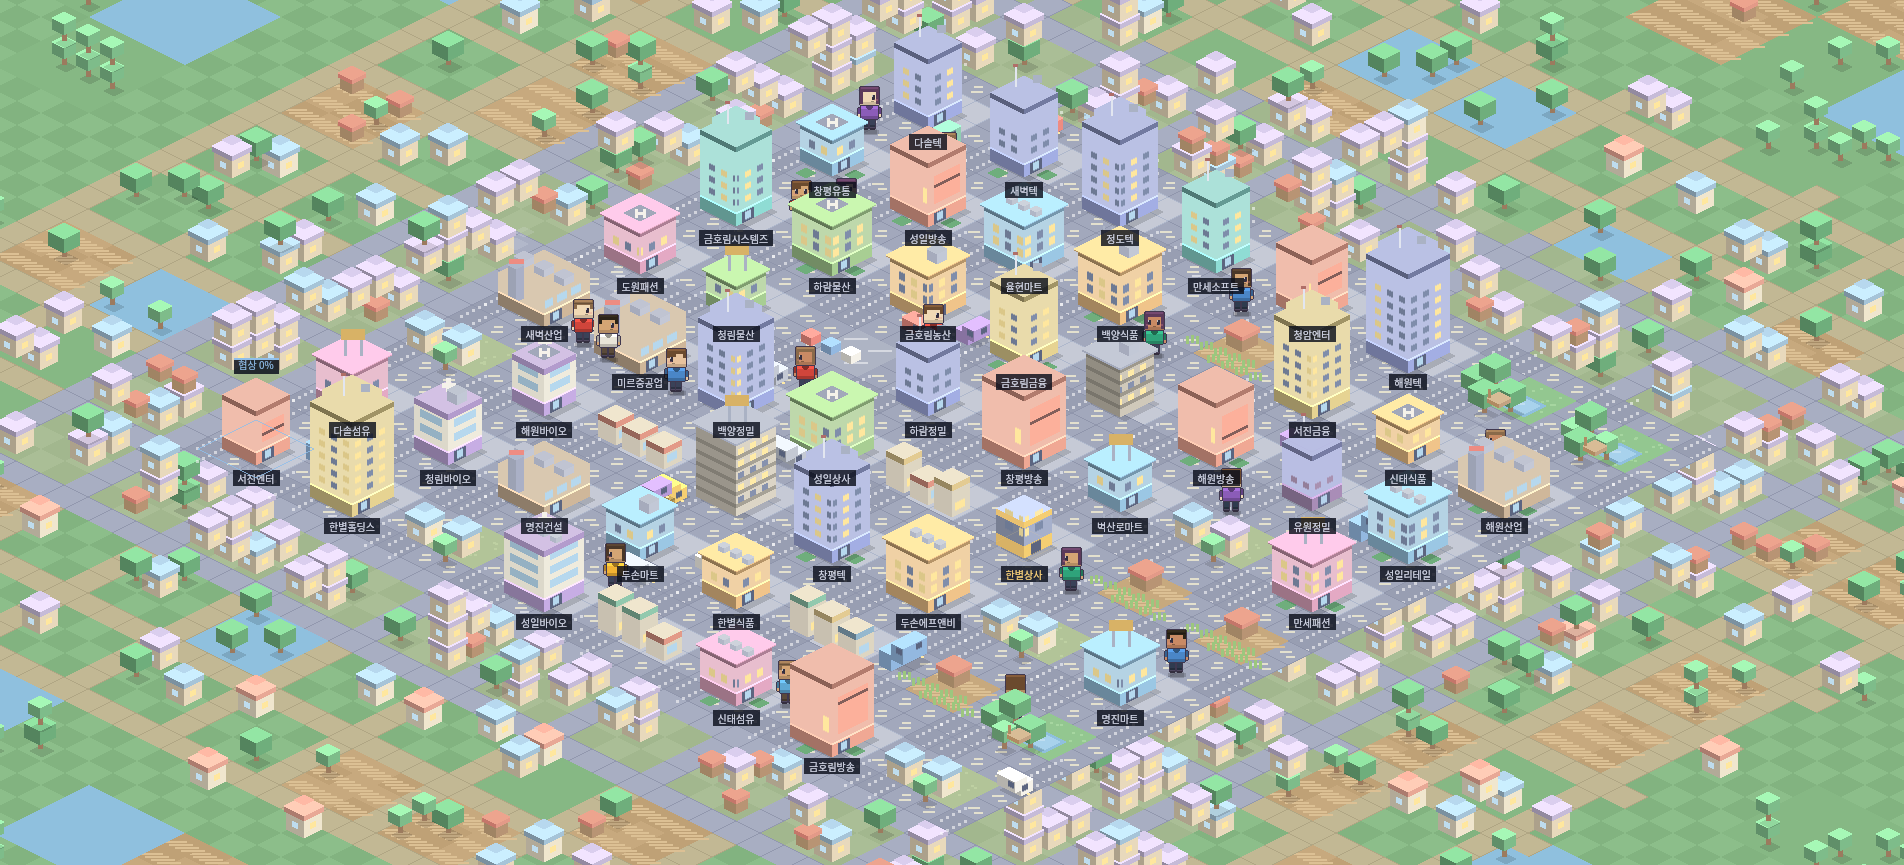
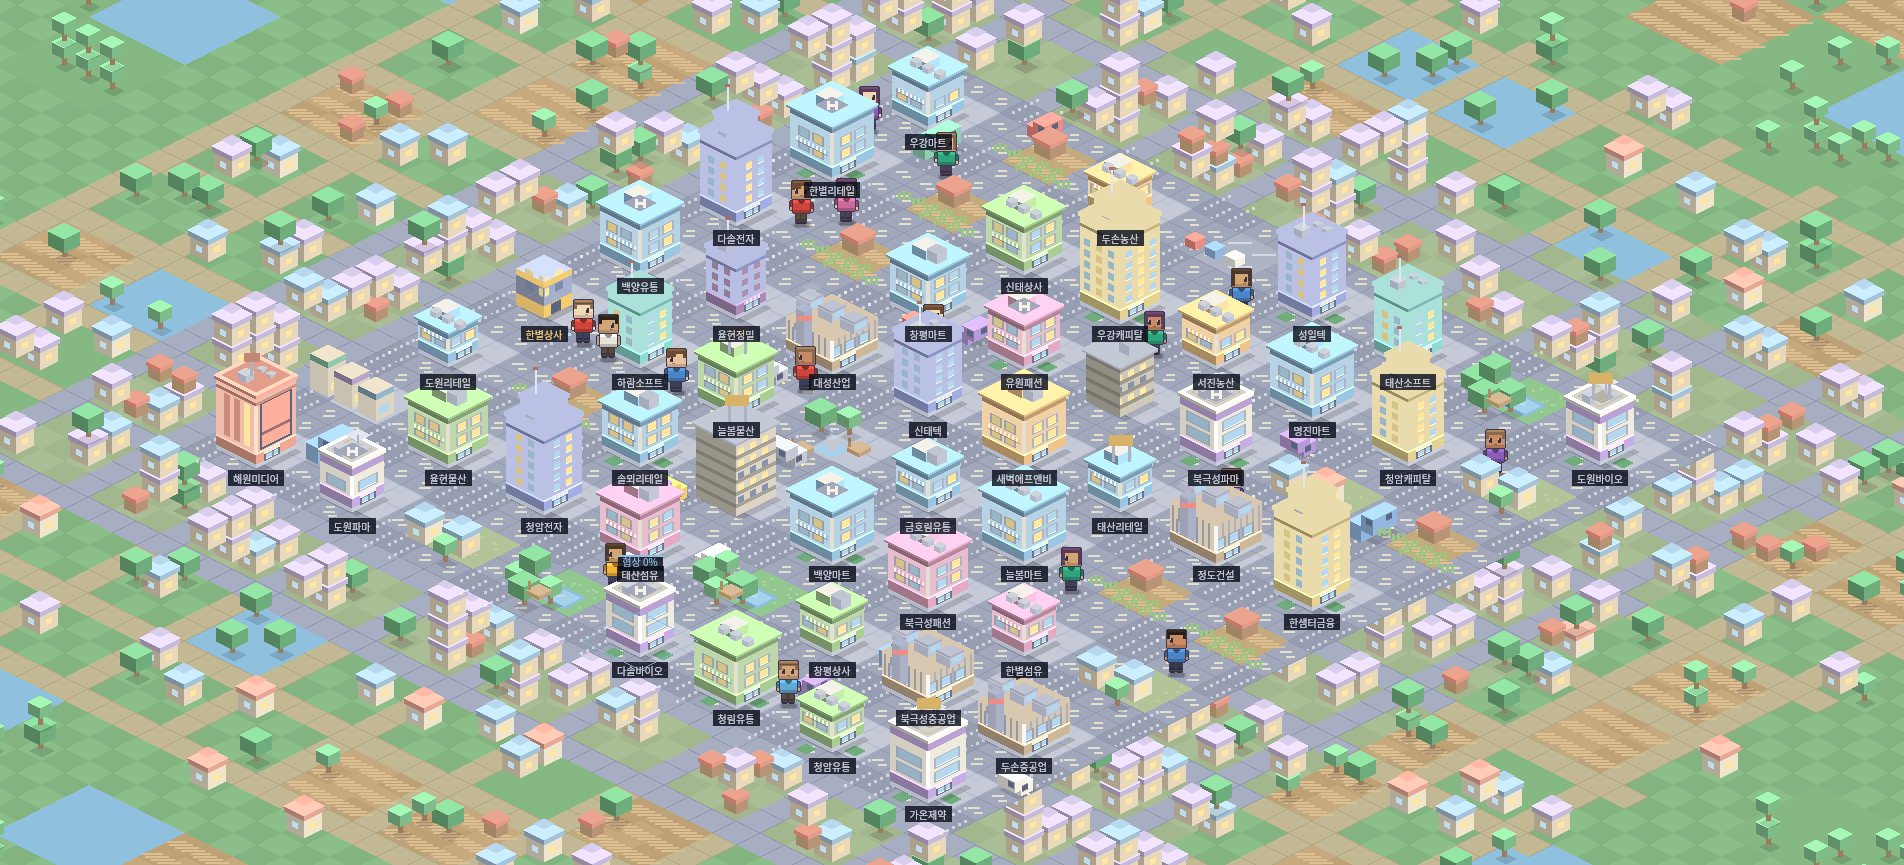
feat: 3단계 — 건물 5종 재작화
다섯 종이 공유하는 마감 프리미티브를 먼저 만들고 그 위에 종류별 특징만
얹는 구조로 갔다. 32×16 시절엔 넣을 자리가 없던 것들이다.

  pane        유리에 창틀 + 아랫변 반사
  windowGrid  열 수를 rx 로 계산해 창을 면 폭에 맞춘다
  floorBands  층 구분 띠
  cornerPost  가까운 모서리의 세로 기둥 — 두 면이 만나는 선을 살린다
  parapet     옥상 테두리 한 겹
  roofDeck    옥상 바닥 + 물탱크·실외기·채광창
  awning      면의 일부 구간에만 얹는 줄무늬 차양

실루엣:
  tower  수직 멀리언으로 뻗고, 72px 넘으면 옥탑이 한 단 물러난다
  lab    낮고 넓다. 가로 유리 띠 + 흰 외벽 + 접시 안테나
  plant  골판 외벽 + 톱니 지붕 3개 + 굴뚝
  neon   벽 한 면이 통째로 전광판. 주사선이 흐르고 테두리가 깜빡인다
  shop   큰 쇼윈도 + 줄무늬 차양 + 옥상 간판

두 번 걸렸다.

1) 창 열 자리를 상수로 박으면 작은 건물에서 창이 사라진다. isoWin 이
   d > rx - 2 인 열을 조용히 버리므로 10 + i*12 같은 고정 좌표는 rx=30
   짜리 건물에서 바깥 열이 통째로 없어진다. 재작화 전 그림이 휑했던
   직접 원인이 이것이었다. windowGrid 가 rx 로 열 수를 계산해 푼다.
2) 1층 간판띠가 작은 건물의 벽을 다 먹는다. 상가는 몸통이 33px 뿐인데
   기단+띠+립에 18px 를 쓰면 창 자리가 안 남는다. 15px 로 줄였다.

검수 도구도 같이 넣었다 — npm run shot 이 style-{tower,lab,plant,neon,shop}
다섯 장을 3x 로 떨군다. 업종을 통째로 바꿔 찍으므로 섞여 있는 도시
그림에서는 안 보이던 마감이 드러난다. 재작화는 "한 종류씩 고치고 대조"라
이게 없으면 확인이 안 된다.

검증: smoke 64/64, 회전 4방향 육안 검수.

Claude-Session: https://claude.ai/code/session_01P1Rh1MgLCyK6LcjNCTwuF6

Changed region(s): [[0.093, 0.0312, 0.8986, 0.9676]]

diff --git a/src/render/city.js b/src/render/city.js
@@ -2,7 +2,7 @@ import { BAL } from '../core/balance.js';
 import { SECTORS } from '../core/data.js';
 import { S } from '../core/state.js';
 import { viewRand } from '../core/rng.js';
-import { $, vchance, vpick, vrnd } from '../core/util.js';
+import { $, clamp, vchance, vpick, vrnd } from '../core/util.js';
 import { HH, HW, faces, isoWin, isoX, isoY, makeLayer, prism, rhomb, rhombEdge, rotFace, rotG } from './iso.js';
 import { CITY_H, CITY_O, CITY_PAD_X, CITY_PAD_Y, CITY_W, MAP_H, MAP_W, X, drawLabel, drawPerson, drawPops, drawText, frame, hoverId, mix, newLook, shade, textW } from './canvas.js';
 
@@ -554,86 +554,231 @@ function drawApron(x, y, lot) {
   }
 }
 
-/** 1층 간판띠 + 출입문 — 모든 스타일이 공유 */
+/* ── 건물 마감 프리미티브 (3단계 재작화) ────────────────────
+   다섯 종이 공유하는 뼈대다. 새 해상도의 이득이 여기서 나온다 —
+   32×16 시절엔 넣을 자리가 없던 기단·층 띠·창틀·파라펫·모서리 기둥이
+   48×24 에서는 전부 들어간다. 종류별 함수는 이 위에 특징만 얹는다.
+
+   `off` 는 면의 바깥 끝에서부터의 거리이고 **짝수여야** 벽에 붙는다 (RENDER.md §4).
+   ─────────────────────────────────────────────────────────── */
+
+/** 창 한 장 — 유리에 창틀을 두르고 아랫변에 반사를 넣는다 */
+function pane(x, y, rx, ry, side, off, up, w, hgt, glass, frm) {
+  isoWin(X, x, y, rx, ry, side, off - 2, up - 1, w + 4, hgt + 2, frm);
+  isoWin(X, x, y, rx, ry, side, off, up, w, hgt, glass);
+  isoWin(X, x, y, rx, ry, side, off, up, w, 1, shade(glass, 0.30));
+}
+
+/**
+ * 창을 면 폭에 맞춰 고르게 배치한다.
+ * **열 수를 rx 로 계산하는 게 핵심이다.** 열 자리를 상수로 박으면 작은 건물에서
+ * 바깥 열이 `d > rx - 2` 로 잘려 나가 창이 두 개만 남는다 — 재작화 전 그림이
+ * 휑했던 직접 원인이 이것이었다.
+ */
+function windowGrid(x, y, rx, ry, from, to, rowGap, ww, wh, colOf, frm) {
+  const cols = clamp(Math.floor((rx - 10) / (ww + 4)), 2, 4);
+  const step = ww + 6, span = (cols - 1) * step + ww;
+  const start = Math.max(4, Math.round((rx - 2 - span) / 4) * 2);
+  let r = 0;
+  for (let up = from; up + wh <= to; up += rowGap, r++) {
+    for (let i = 0; i < cols; i++) {
+      const col = colOf(r, i);
+      pane(x, y, rx, ry, 'l', start + i * step, up, ww, wh, shade(col, -0.16), shade(frm, -0.12));
+      pane(x, y, rx, ry, 'r', start + i * step, up, ww, wh, col, frm);
+    }
+  }
+}
+
+/** 옥상 파라펫 — 테두리 한 겹. 없으면 상자를 잘라 놓은 것처럼 보인다 */
+function parapet(x, y, rx, h, body) {
+  prism(X, x, y - h, rx + 2, (rx + 2) / 2, 4, shade(body, 0.30), shade(body, -0.32), shade(body, 0.06));
+}
+
+/**
+ * 옥상 바닥 — 파라펫 안쪽을 한 겹 깔고 설비를 얹는다.
+ * 쿼터뷰는 지붕이 화면의 3분의 1을 먹는다. 여기가 빈 마름모 한 장이면
+ * 아무리 벽을 잘 그려도 건물이 '잘라 놓은 상자'로 보인다.
+ */
+function roofDeck(x, y, rx, h, body, k) {
+  const top = y - h - 4;
+  rhomb(X, x, top, rx - 6, (rx - 6) / 2, shade(body, -0.10));
+  rhombEdge(X, x, top, rx - 12, (rx - 12) / 2, shade(body, -0.20));
+  prism(X, x - 10, top + 5, 8, 4, 8, '#D2D7E0', '#A6ABBC', '#C0C6D2');            // 물탱크
+  for (let i = 0; i < 2; i++) {                                                    // 실외기
+    prism(X, x + 6 + i * 9, top - 3 + i * 5, 5, 2, 4, '#CED3DC', '#A6ABBC', '#C0C6D2');
+  }
+  if (k > 0.6) rhomb(X, x + 2, top + 1, 12, 6, shade(body, -0.24));                // 채광창
+}
+
+/** 층 구분 띠 */
+function floorBands(x, y, rx, ry, from, to, gap, body) {
+  for (let up = from; up < to; up += gap) {
+    faces(X, x, y, rx, ry, up, up + 2, shade(body, -0.30), shade(body, -0.14));
+  }
+}
+
+/** 가까운 모서리의 세로 기둥. 두 면이 만나는 선을 살려 준다 */
+function cornerPost(x, y, rx, ry, h, color) {
+  X.fillStyle = color;
+  X.fillRect(Math.round(x) - 2, Math.round(y) + ry - 1 - h, 4, h);
+}
+
+/** 면의 일부 구간에만 얹는 줄무늬 차양. 출입구·쇼윈도 위에 쓴다 */
+function awning(x, y, rx, ry, side, off, w, up, a, b) {
+  for (let i = 0; i < w; i += 2) {
+    const d = off + i;
+    if (d < 0 || d > rx - 2) continue;
+    const px = side === 'l' ? x - rx + d : x + rx - d - 2;
+    const by = side === 'l' ? y + ry - (rx - d) / 2 : y + ry - 1 - (rx - d - 2) / 2;
+    X.fillStyle = (i >> 1) % 2 ? a : b;
+    X.fillRect(Math.round(px), Math.round(by - up), 2, 4);
+    X.fillStyle = 'rgba(64,56,79,.35)';
+    X.fillRect(Math.round(px), Math.round(by - up + 4), 2, 1);
+  }
+}
+
+/** 1층 — 돌 기단 · 간판띠 · 유리 출입문 · 차양. 모든 스타일이 공유한다. */
 function drawSign(x, y, rx, ry, sec, cursed) {
   const c = cursed ? '#A88CB4' : sec.color;
-  faces(X, x, y, rx, ry, 0, 12, shade(c, -0.32), c);
-  faces(X, x, y, rx, ry, 12, 14, shade(c, 0.22), shade(c, 0.34));
-  isoWin(X, x, y, rx, ry, 'r', rx - 18, 0, 12, 11, '#5C6580');
-  isoWin(X, x, y, rx, ry, 'r', rx - 15, 2, 6, 8, '#B6D8EE');
+  /* 1층은 **얇아야 한다.** 상가는 몸통이 33px 뿐이라 여기서 18px 를 쓰면
+     창을 넣을 벽이 안 남는다. 기단 4 + 띠 9 + 립 2 = 15px 로 잡았다. */
+  faces(X, x, y, rx, ry, 0, 4, '#B4BAC8', '#C8CEDA');                     // 돌 기단
+  faces(X, x, y, rx, ry, 4, 13, shade(c, -0.30), c);                      // 간판띠
+  faces(X, x, y, rx, ry, 13, 15, shade(c, 0.26), shade(c, 0.40));         // 띠 윗 립
+
+  const d = rx - 22;                                                       // 출입구는 가까운 모서리 쪽
+  pane(x, y, rx, ry, 'r', d, 4, 12, 8, '#B6D8EE', '#6E7788');
+  isoWin(X, x, y, rx, ry, 'r', d + 4, 4, 2, 8, '#8E97A8');                 // 문틀 가운데
+  awning(x, y, rx, ry, 'r', d - 2, 16, 14, shade(c, 0.34), '#F5F2EA');
 }
 
+/* ── 고층 (IT · 금융 · 전자) ─────────────────────────────────
+   실루엣: 수직 멀리언으로 위로 뻗고, 높으면 옥탑이 한 단 물러난다. */
 function drawTower(c, g, sec, seed, body) {
   const { x, y, rx, ry, h } = g;
-  faces(X, x, y, rx, ry, h - 5, h, shade(sec.color, -0.45), shade(sec.color, -0.30));
-  const rows = Math.floor((h - 33) / 12);
-  for (let r = 0; r < rows; r++) for (let i = 0; i < 3; i++) {
+  const glass = c.curse > 0 ? '#A890AC' : '#B6D8EE';
+  const frm = shade(body, -0.34);
+  const top = h - 10;
+
+  floorBands(x, y, rx, ry, 16, top, 11, body);
+  for (let i = 4; i < rx - 6; i += 12) {                                   // 수직 멀리언
+    isoWin(X, x, y, rx, ry, 'l', i, 15, 2, Math.max(0, top - 15), shade(body, -0.22));
+    isoWin(X, x, y, rx, ry, 'r', i, 15, 2, Math.max(0, top - 15), shade(body, -0.12));
+  }
+  windowGrid(x, y, rx, ry, 18, top, 11, 6, 7, (r, i) => {
     const lit = ((seed + i * 3 + r * 5 + Math.floor(frame / 90)) % 5) < 2;
-    const col = c.curse > 0 ? '#A890AC' : lit ? '#FFE79E' : '#7F8DAB';
-    isoWin(X, x, y, rx, ry, 'l', 9 + i * 12, 20 + r * 12, 6, 6, shade(col, -0.14));
-    isoWin(X, x, y, rx, ry, 'r', 9 + i * 12, 20 + r * 12, 6, 6, col);
+    return c.curse > 0 ? '#A890AC' : lit ? '#FFE79E' : glass;
+  }, frm);
+  cornerPost(x, y, rx, ry, top, shade(body, 0.34));
+  faces(X, x, y, rx, ry, top, top + 3, shade(sec.color, -0.34), shade(sec.color, -0.14));   // 상단 로고 띠
+  parapet(x, y, rx, h, body);
+  roofDeck(x, y, rx, h, body, ((seed % 10) / 10));
+
+  if (h > 72) {                                                            // 물러난 옥탑
+    const rr = rx - 14;
+    prism(X, x, y - h - 4, rr, rr / 2, 14, shade(body, 0.32), shade(body, -0.26), body);
+    faces(X, x, y - h - 4, rr, rr / 2, 10, 12, shade(body, -0.34), shade(body, -0.18));
+    parapet(x, y - h - 4, rr, 14, body);
   }
-  if (h > 72) {
-    const rr = rx - 12;
-    prism(X, x, y - h, rr, (rr) / 2, 12, shade(body, 0.30), shade(body, -0.24), body);
-  }
-  X.fillStyle = '#AAB2C4'; X.fillRect(Math.round(x + 9), Math.round(y - h - 18), 9, 8);
-  X.fillStyle = '#E2E6F0'; X.fillRect(Math.round(x - 9), Math.round(y - h - 26), 2, 20);
-  X.fillStyle = Math.floor(frame / 30) % 2 ? '#EE8C82' : '#B06E68';
-  X.fillRect(Math.round(x - 11), Math.round(y - h - 29), 5, 3);
+  const ty = y - h - (h > 72 ? 22 : 4);
+  X.fillStyle = '#E2E6F0'; X.fillRect(Math.round(x - 9), Math.round(ty - 24), 2, 24);       // 안테나
+  X.fillStyle = Math.floor(frame / 30) % 2 ? '#EE8C82' : '#B06E68';                          // 항공장애등
+  X.fillRect(Math.round(x - 11), Math.round(ty - 27), 5, 3);
 }
 
+/* ── 연구소 (제약) ───────────────────────────────────────────
+   실루엣: 낮고 넓다. 가로로 긴 유리 띠와 흰 외벽. */
 function drawLab(c, g, sec) {
   const { x, y, rx, ry, h } = g;
-  faces(X, x, y, rx, ry, 14, h - 6, '#DCD8CA', '#EFEBDD');
-  for (let r = 0; r * 14 < h - 30; r++) {
-    const col = c.curse > 0 ? '#A890AC' : '#B6D8EE';
-    isoWin(X, x, y, rx, ry, 'l', 6, 21 + r * 14, rx - 12, 8, shade(col, -0.18));
-    isoWin(X, x, y, rx, ry, 'r', 6, 21 + r * 14, rx - 12, 8, col);
+  const wall = '#EFEBDD', glass = c.curse > 0 ? '#A890AC' : '#B6D8EE';
+  const top = h - 8;
+  faces(X, x, y, rx, ry, 15, top, shade(wall, -0.12), wall);
+  for (let up = 18; up + 9 <= top; up += 14) {                             // 가로 유리 띠
+    pane(x, y, rx, ry, 'l', 8, up, rx - 16, 9, shade(glass, -0.18), '#9AA2B0');
+    pane(x, y, rx, ry, 'r', 8, up, rx - 16, 9, glass, '#AEB6C4');
   }
-  faces(X, x, y, rx, ry, h - 6, h, shade(sec.color, -0.28), shade(sec.color, -0.1));
-  X.fillStyle = '#F5F2EA';
-  X.fillRect(Math.round(x - 6), Math.round(y - h - 15), 14, 5);
-  X.fillRect(Math.round(x - 2), Math.round(y - h - 20), 5, 14);
+  cornerPost(x, y, rx, ry, top, shade(wall, 0.16));
+  faces(X, x, y, rx, ry, top, h, shade(sec.color, -0.26), shade(sec.color, -0.06));
+  parapet(x, y, rx, h, wall);
+  roofDeck(x, y, rx, h, wall, 0.9);
+  rhomb(X, x + 6, y - h - 18, 12, 6, '#E2E6F0');                           // 접시 안테나
+  X.fillStyle = '#AAB2C4'; X.fillRect(Math.round(x + 5), Math.round(y - h - 18), 2, 9);
 }
 
+/* ── 공장 (건설·중공업) ──────────────────────────────────────
+   실루엣: 낮고 길다. 골판 외벽 + 톱니 지붕 + 굴뚝. */
 function drawPlant(c, g) {
   const { x, y, rx, ry, h } = g;
-  for (let i = 0; i < 3; i++)                            // 톱니 지붕
-    prism(X, x - 20 + i * 20, y - h - 9 + i * 9, 10, 5, 8, '#C0C4D2', '#A6ABBC', '#C4C8D6');
-  const col = c.curse > 0 ? '#A890AC' : '#B6D8EE';
-  for (let i = 0; i < 3; i++) isoWin(X, x, y, rx, ry, 'r', 9 + i * 14, 18, 9, 8, col);
-  prism(X, x - rx + 18, y - 6, 8, 4, Math.round(h * 0.7) + 12, '#AFB8CC', '#9CA2B4', '#AAB0C6');  // 굴뚝
-  X.fillStyle = '#EE8C82'; X.fillRect(Math.round(x - rx + 11), Math.round(y - Math.round(h * 0.7) - 24), 15, 5);
-  const ct = y - Math.round(h * 0.7) - 30;
+  const wall = '#C4C9D4', glass = c.curse > 0 ? '#A890AC' : '#B6D8EE';
+  const wallH = Math.max(0, h - 17);
+  for (let i = 2; i < rx - 4; i += 6) {                                    // 골판 외벽
+    isoWin(X, x, y, rx, ry, 'l', i, 15, 2, wallH, shade(wall, -0.24));
+    isoWin(X, x, y, rx, ry, 'r', i, 15, 2, wallH, shade(wall, -0.12));
+  }
+  for (let i = 0; i < 3; i++) pane(x, y, rx, ry, 'r', 10 + i * 14, 17, 8, Math.min(9, wallH), glass, '#9AA2B0');
+  pane(x, y, rx, ry, 'l', 8, 16, 18, Math.min(12, wallH), '#AEB6C4', '#8E97A8');   // 셔터
+  cornerPost(x, y, rx, ry, h - 2, shade(wall, 0.24));
+
+  for (let i = 0; i < 3; i++) {                                            // 톱니 지붕
+    const sx = x - 22 + i * 22, sy = y - h - 11 + i * 11;
+    prism(X, sx, sy, 14, 7, 10, '#C0C4D2', '#A6ABBC', '#C4C8D6');
+    isoWin(X, sx, sy, 14, 7, 'r', 2, 3, 10, 6, glass);                     // 채광창
+    faces(X, sx, sy, 14, 7, 10, 12, '#9CA2B4', '#AAB0C6');
+  }
+  const ch = Math.round(h * 0.7) + 14;
+  prism(X, x - rx + 18, y - 6, 8, 4, ch, '#AFB8CC', '#9CA2B4', '#AAB0C6');  // 굴뚝
+  X.fillStyle = '#EE8C82'; X.fillRect(Math.round(x - rx + 11), Math.round(y - 6 - ch + 8), 15, 5);
+  const ct = y - 6 - ch;
   X.save(); X.globalAlpha = 0.16 + Math.sin(frame / 26) * 0.07;
   rhomb(X, x - rx + 18, ct - 9, 12, 6, '#E2E6F0');
   rhomb(X, x - rx + 26, ct - 21, 10, 5, '#E2E6F0'); X.restore();
 }
 
+/* ── 전광판 (미디어) ─────────────────────────────────────────
+   실루엣: 벽 한 면이 통째로 화면이다. 네온 테두리가 깜빡인다. */
 function drawNeon(c, g, sec, seed) {
   const { x, y, rx, ry, h } = g;
   const col = c.curse > 0 ? '#A890AC' : shade(sec.color, 0.05);
-  const bh = Math.max(9, h - 36);
-  isoWin(X, x, y, rx, ry, 'r', 6, 20, rx - 12, bh, col);                  // 전광판
-  isoWin(X, x, y, rx, ry, 'r', 6, 20 + Math.floor(frame / 12 + seed) % bh, rx - 12, 3, 'rgba(11,15,27,.5)');
-  for (let i = 0; i < 3; i++)
-    if ((i + Math.floor(frame / 18)) % 3 === 0) isoWin(X, x, y, rx, ry, 'l', 9 + i * 12, 23, 6, 15, '#FFE79E');
-  faces(X, x, y, rx, ry, h - 5, h, shade(sec.color, -0.42), shade(sec.color, -0.26));
+  const top = h - 8;
+  const bh = Math.max(12, top - 20);
+  isoWin(X, x, y, rx, ry, 'r', 4, 16, rx - 8, bh + 4, '#5C6580');           // 전광판 프레임
+  isoWin(X, x, y, rx, ry, 'r', 6, 18, rx - 12, bh, col);
+  for (let i = 0; i < 3; i++) {                                            // 흐르는 주사선
+    const off = (Math.floor(frame / 6 + seed) + i * 9) % bh;
+    isoWin(X, x, y, rx, ry, 'r', 6, 18 + off, rx - 12, 2, shade(col, 0.34));
+  }
+  isoWin(X, x, y, rx, ry, 'r', 6, 18 + Math.floor(frame / 12 + seed) % bh, rx - 12, 3, 'rgba(40,36,56,.45)');
+  for (let i = 0; i < 4; i++) {                                            // 좌면 네온 세로등
+    const on = (i + Math.floor(frame / 18)) % 3 === 0;
+    isoWin(X, x, y, rx, ry, 'l', 8 + i * 10, 18, 6, bh, on ? '#FFE79E' : shade(sec.color, -0.16));
+  }
+  cornerPost(x, y, rx, ry, top, shade(sec.color, 0.36));
+  const blink = Math.floor(frame / 20) % 2;
+  faces(X, x, y, rx, ry, top, top + 3, blink ? shade(sec.color, 0.30) : shade(sec.color, -0.34),
+        blink ? '#FFE79E' : shade(sec.color, -0.12));
+  parapet(x, y, rx, h, sec.color);
+  roofDeck(x, y, rx, h, shade(sec.color, -0.06), 0.2);
+  X.fillStyle = '#AAB2C4'; X.fillRect(Math.round(x - 6), Math.round(y - h - 20), 3, 17);   // 광고탑
+  X.fillStyle = Math.floor(frame / 24) % 2 ? '#FFE79E' : shade(sec.color, -0.20);
+  X.fillRect(Math.round(x - 12), Math.round(y - h - 26), 16, 9);
 }
 
+/* ── 상가 (생필품·식품·유통·의류) ────────────────────────────
+   실루엣: 낮고 통통하다. 큰 쇼윈도 + 차양 + 옥상 간판. */
 function drawShop(c, g, sec, seed) {
   const { x, y, rx, ry, h } = g;
-  const rows = Math.max(1, Math.floor((h - 24) / 12));
-  for (let r = 0; r < rows; r++) for (let i = 0; i < 3; i++) {
+  const glass = c.curse > 0 ? '#A890AC' : '#B6D8EE';
+  const top = h - 6;
+  windowGrid(x, y, rx, ry, 18, top, 13, 8, 8, (r, i) => {
     const lit = ((seed + i * 3 + r * 5 + Math.floor(frame / 90)) % 5) < 3;
-    const col = c.curse > 0 ? '#A890AC' : lit ? '#FFE79E' : '#7F8DAB';
-    isoWin(X, x, y, rx, ry, 'l', 9 + i * 12, 18 + r * 12, 6, 8, shade(col, -0.14));
-    isoWin(X, x, y, rx, ry, 'r', 9 + i * 12, 18 + r * 12, 6, 8, col);
-  }
-  faces(X, x, y, rx, ry, h - 5, h, shade(sec.color, -0.42), shade(sec.color, -0.24));            // 처마
+    return c.curse > 0 ? '#A890AC' : lit ? '#FFE79E' : glass;
+  }, '#AEB6C4');
+  awning(x, y, rx, ry, 'l', 6, rx - 10, 28, sec.color, '#F5F2EA');
+  cornerPost(x, y, rx, ry, top, '#E4E0D4');
+  faces(X, x, y, rx, ry, top, h, shade(sec.color, -0.40), shade(sec.color, -0.20));         // 처마
   const rr = rx + 4;
-  prism(X, x, y - h, rr, (rr) / 2, 2, shade(sec.color, 0.2), shade(sec.color, -0.25), sec.color);
+  prism(X, x, y - h, rr, rr / 2, 3, shade(sec.color, 0.24), shade(sec.color, -0.28), sec.color);
+  prism(X, x - 2, y - h - 3, 14, 7, 10, '#F5F2EA', shade(sec.color, -0.30), shade(sec.color, 0.16));  // 옥상 간판
 }
 
 function drawNamePlate(x, y, name, color, hit) { plates.push({ x, y, name, color, hit }); }
@@ -765,4 +910,4 @@ function myGeom() {
   return { x, y, rx, ry: rx / 2, h: MY_H[S.co.tier] };
 }
 
-export { isRoad, blockOrigin, bboxOf, boxHits, focusOf, isoHit, plateHit, bldgGeom, flushPlates, drawOutskirts, emptyKind, drawFillApart, drawFillOffice, drawFillShops, drawRoofProps, KIND_FLOOR, FILL_BODY, buildEmpties, cityGround, cityHit, drawApron, drawBench, drawBlockTile, drawBuilding, drawCar, drawCity, drawCrop, drawFountain, drawHouse, drawLab, drawMyBuilding, drawNamePlate, drawNegoMark, drawNeon, drawPlant, drawPond, drawRoadTile, drawShed, drawShop, drawSign, drawTerrain, drawTower, drawTree, ensureTraffic, h2, kindOf, lotC, lotY, moveTraffic, myGeom, pedFace, speckle, trafficPos };
+export { awning, cornerPost, floorBands, pane, parapet, roofDeck, windowGrid, isRoad, blockOrigin, bboxOf, boxHits, focusOf, isoHit, plateHit, bldgGeom, flushPlates, drawOutskirts, emptyKind, drawFillApart, drawFillOffice, drawFillShops, drawRoofProps, KIND_FLOOR, FILL_BODY, buildEmpties, cityGround, cityHit, drawApron, drawBench, drawBlockTile, drawBuilding, drawCar, drawCity, drawCrop, drawFountain, drawHouse, drawLab, drawMyBuilding, drawNamePlate, drawNegoMark, drawNeon, drawPlant, drawPond, drawRoadTile, drawShed, drawShop, drawSign, drawTerrain, drawTower, drawTree, ensureTraffic, h2, kindOf, lotC, lotY, moveTraffic, myGeom, pedFace, speckle, trafficPos };

diff --git a/RENDER.md b/RENDER.md
@@ -195,8 +195,9 @@ DOM 쪽 흐림의 직접 원인이었다.
 ## 6. 검수
 
 ```bash
-npm run smoke   # 62 케이스. 캔버스는 스텁이라 "안 터진다"까지만 본다
+npm run smoke   # 64 케이스. 캔버스는 스텁이라 "안 터진다"까지만 본다
 npm run shot    # shots/{title,city,store,icons,view0..3,facil0,facil3}.png
+                # + shots/style-{tower,lab,plant,neon,shop}.png (건물 5종 3x)
                 # — 실제 픽셀로 그려서 눈으로 본다
 ```
 
@@ -220,7 +221,24 @@ PNG로 떨군다. 노드에는 Galmuri가 없어 시스템 CJK 폰트를 같은 
   파스텔로 같이 눕히면 글자가 사라진다.
 - 아웃라인(`OUT`)은 파스텔 바닥에서도 실루엣이 남는 진하기여야 한다 (`#40384F`).
 
-## 8. 캐릭터
+## 8. 건물 — 마감 프리미티브
+
+다섯 종(`tower`/`lab`/`plant`/`neon`/`shop`)이 `pane`·`windowGrid`·`floorBands`·
+`cornerPost`·`parapet`·`roofDeck`·`awning` 을 공유하고, 그 위에 특징만 얹는다.
+새 건물을 만들 때도 이 뼈대를 먼저 깐다.
+
+- **창 열 자리를 상수로 박지 말 것.** `isoWin` 은 `d > rx - 2` 인 열을 조용히
+  버린다. `10 + i*12` 처럼 고정 좌표를 쓰면 `rx=30` 짜리 건물에서 바깥 열이
+  통째로 사라진다. `windowGrid` 가 rx 로 열 수를 계산하니 그걸 쓸 것.
+- **`off` 는 짝수여야 한다.** `isoWin` 이 2px 단위로 훑기 때문이다.
+- **1층(`drawSign`)은 15px 를 넘기지 말 것.** 상가는 몸통이 33px 뿐이라
+  여기가 두꺼우면 창을 넣을 벽이 안 남는다.
+- **지붕을 비워 두지 말 것.** 쿼터뷰는 지붕이 화면의 3분의 1을 먹는다.
+  `parapet` + `roofDeck` 없이는 아무리 벽을 잘 그려도 잘라 놓은 상자로 보인다.
+- 검수는 `shots/style-*.png` 다섯 장. 업종을 통째로 바꿔 3x 로 찍으므로
+  섞여 있는 도시 그림에서는 안 보이던 마감이 드러난다.
+
+## 9. 캐릭터
 
 `drawPerson(x, y, look, dir, step)` — 22×44. 발밑이 (x, y) 다.
 
